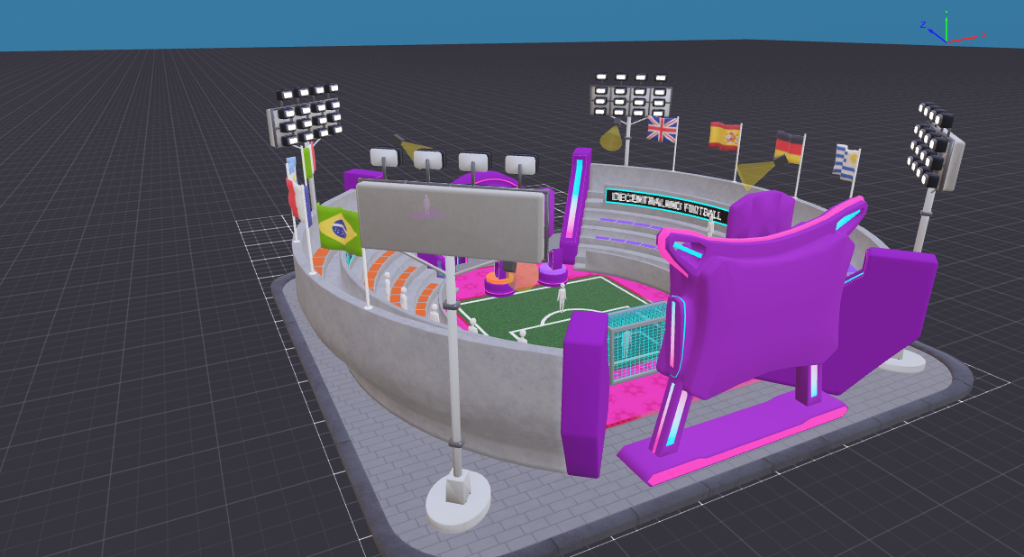
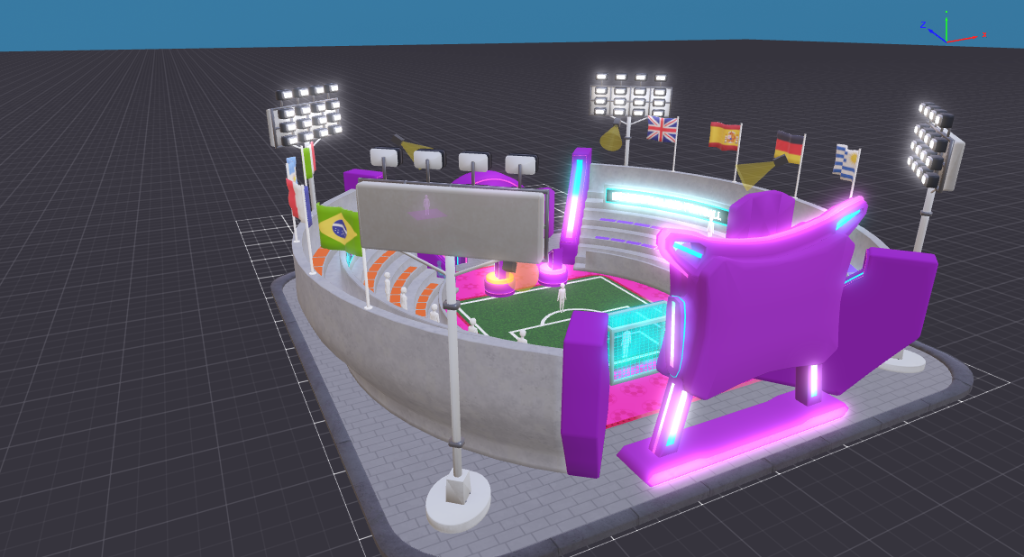
Fix NPC-Engine // Spectator Issues

diff --git a/src/client/playerCloneManager.ts b/src/client/playerCloneManager.ts
@@ -111,10 +111,12 @@ function triggerLocalEmote(phase: string) {
 
 function repositionPlayers() {
   const s           = clientSnapshot
-  const isPvE       = s.mode === 'pve'
   const kickerIsRed = s.kickerIsRed === 1
-  const humanIsRed  = s.pveHumanIsRed === 1
   const localAddr   = localPlayerAddr()
+
+  const localIsRed = localAddr === s.redAddr.toLowerCase()
+  const localIsBlue = localAddr === s.blueAddr.toLowerCase()
+  if (!localIsRed && !localIsBlue) return
 
   const kickerAddr = (kickerIsRed ? s.redAddr : s.blueAddr).toLowerCase()
   const localIsKicker = localAddr === kickerAddr
@@ -126,18 +128,25 @@ function repositionPlayers() {
   } else {
     void movePlayerTo({ newRelativePosition: GK_POS, cameraTarget: KICKER_POS })
   }
+}
 
-  // ── Training bot for PvE AI opponent ──────────────────────────────────────
-  if (isPvE) {
-    const kickerIsAI = kickerIsRed !== humanIsRed
-    trainingBotIsKicker = kickerIsAI
-    if (kickerIsAI) {
-      showTrainingBot(KICKER_POS, KICKER_ROT)
-    } else {
-      showTrainingBot(GK_POS, GK_ROT)
-    }
-  } else {
+function manageTrainingBot() {
+  const s           = clientSnapshot
+  const isPvE       = s.mode === 'pve'
+  const kickerIsRed = s.kickerIsRed === 1
+  const humanIsRed  = s.pveHumanIsRed === 1
+
+  if (!isPvE) {
     hideTrainingBot()
+    return
+  }
+
+  const kickerIsAI = kickerIsRed !== humanIsRed
+  trainingBotIsKicker = kickerIsAI
+  if (kickerIsAI) {
+    showTrainingBot(KICKER_POS, KICKER_ROT)
+  } else {
+    showTrainingBot(GK_POS, GK_ROT)
   }
 }
 
@@ -145,15 +154,19 @@ function repositionPlayers() {
 
 export function initPlayerCloneSystem(): void {
   engine.addSystem((_dt: number) => {
-    const s      = clientSnapshot
-    const active = s.hasActiveMatch
-    const phase  = s.phase
+    const s       = clientSnapshot
+    const active  = s.hasActiveMatch
+    const phase   = s.phase
+    const localAddr = localPlayerAddr()
+    const localIsRed = localAddr === s.redAddr.toLowerCase()
+    const localIsBlue = localAddr === s.blueAddr.toLowerCase()
 
     const roleKey = `${active}-${s.kickerIsRed}`
     if (roleKey !== prevRoleKey) {
       prevRoleKey = roleKey
       if (active === 1) {
         repositionPlayers()
+        manageTrainingBot()
       } else {
         hideTrainingBot()
         unlockLocomotion()
@@ -163,7 +176,9 @@ export function initPlayerCloneSystem(): void {
 
     if (active === 1 && phase !== prevPhase) {
       prevPhase = phase
-      triggerLocalEmote(phase)
+      if (localIsRed || localIsBlue) {
+        triggerLocalEmote(phase)
+      }
       playTrainingBotAnim(phase)
     }
   })